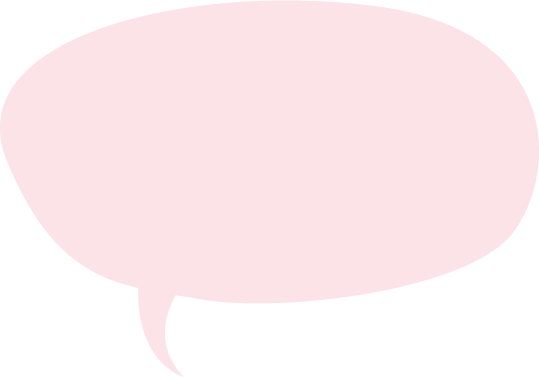
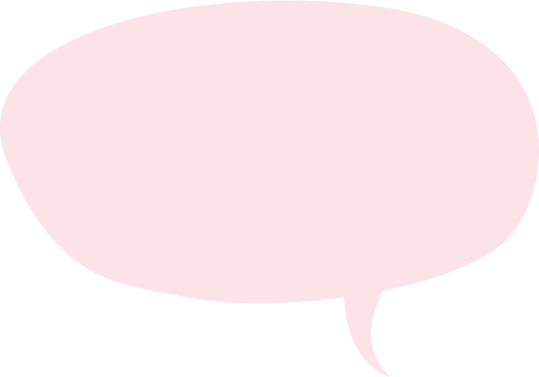
Add game logic, audio and win overlay
Implement game interactivity and UI styles: add JS to play instruction audio (with autoplay fallback), handle card clicks with correct/error audio feedback, track selection of number 9s and show a victory overlay with continue button. Refactor CSS: remove debug background colors, position bubble image/text, add controls button styling, define grid card styles and success/error states, and add animated win-overlay styles. Also add .DS_Store entries and update img/globo.png file mode.

Changed region(s): [[0.2375, 0.7586, 0.3265, 0.992], [0.6234, 0.7586, 0.7124, 0.992]]

diff --git a/css/styles.css b/css/styles.css
@@ -124,7 +124,6 @@ body {
   justify-content: end;
   align-items: center;
   padding: 1rem;
-  background-color: blue;
 }
 
 .header__logo {
@@ -132,7 +131,6 @@ body {
   justify-content: end;
   align-items: center;
   width: 15%;
-  background-color: purple;
 }
 
 /* MAIN */
@@ -142,7 +140,6 @@ body {
   grid-template-columns: 1fr 1fr;
   grid-template-rows: 1fr;
   grid-template-areas: "guide game";
-  background-color: red;
 }
 
 /* MAIN - GUIDE */
@@ -155,7 +152,6 @@ body {
     "bubble bubble"
     "controls character";
   gap: 1rem;
-  background-color: green;
 }
 
 .bubble {
@@ -164,21 +160,26 @@ body {
   justify-content: center;
   align-items: flex-end;
   position: relative;
-  background-color: beige;
 }
 
 .bubble__img {
   width: 75%;
+  position: relative;
+  top: 50px;
+  left: 50px;
 }
 
 .bubble__text {
   position: absolute;
   bottom: 25%; /* sube desde abajo — el globo está abajo */
-  left: 50%;
-  width: 45%; /* ancho del área de texto dentro del óvalo */
+  left: 60%;
+  width: 75%; /* ancho del área de texto dentro del óvalo */
   text-align: center;
   transform: translateX(-50%);
-  /* Se posiciona relativo a .bubble, pero apuntando al centro del globo */
+  font-size: 1.5rem;
+  font-family: "fredoka", sans-serif;
+  color: #1a365d;
+  font-weight: 500;
 }
 
 .controls {
@@ -188,7 +189,13 @@ body {
   align-items: end;
   gap: 1rem;
   padding: 0 0 1rem 1rem;
-  background-color: pink;
+}
+
+.controls__button {
+  background: transparent;
+  border: none;
+  padding: 0;
+  cursor: pointer;
 }
 
 .controls__icon {
@@ -200,7 +207,6 @@ body {
   display: flex;
   justify-content: center;
   align-items: flex-end; /* pega el personaje abajo */
-  background-color: aqua;
   overflow: visible;
 }
 
@@ -212,15 +218,120 @@ body {
 /* MAIN - GAME */
 .main__game {
   grid-area: game;
-  align-content: center;
-  padding: 1rem;
-  background-color: orange;
+  padding: 7rem 1rem 1rem;
 }
 
 .grid {
   display: grid;
-  grid-template-columns: repeat(6, 1fr);
-  grid-template-rows: repeat(4, 1fr);
-  gap: 0.5rem;
-  background-color: red;
+  grid-template-columns: repeat(6, 85px);
+  grid-auto-rows: 85px;
+}
+
+.grid__card {
+  background-color: white;
+  border: none;
+  border-radius: 8px;
+  cursor: pointer;
+  transition: background-color 0.2s;
+}
+
+.grid__card--correcto {
+  background-color: #90ee90; /* verde claro */
+}
+
+.grid__card--error {
+  background-color: #ffcccc; /* rojo claro breve */
+}
+
+/* ==========================================
+   OVERLAY DE VICTORIA
+========================================== */
+
+@keyframes fade-in {
+  from {
+    opacity: 0;
+  }
+  to {
+    opacity: 1;
+  }
+}
+
+@keyframes pop-in {
+  from {
+    transform: scale(0.6);
+    opacity: 0;
+  }
+  to {
+    transform: scale(1);
+    opacity: 1;
+  }
+}
+
+.win-overlay {
+  position: fixed;
+  inset: 0;
+  z-index: 999;
+  display: flex;
+  justify-content: center;
+  align-items: center;
+  background: rgba(0, 0, 0, 0.55);
+  animation: fade-in 0.35s ease;
+}
+
+.win-overlay__content {
+  display: flex;
+  flex-direction: column;
+  align-items: center;
+  animation: pop-in 0.45s cubic-bezier(0.34, 1.4, 0.64, 1);
+}
+
+.win-overlay__cloud-wrap {
+  position: relative;
+  width: min(80vw, 480px);
+}
+
+.win-overlay__cloud {
+  display: block;
+  width: 100%;
+  height: auto;
+}
+
+.win-overlay__msg {
+  position: absolute;
+  inset: 0;
+  display: flex;
+  justify-content: center;
+  align-items: center;
+  padding: 10% 15%;
+  font-family: "mali", sans-serif;
+  font-size: clamp(1rem, 3.5vw, 1.6rem);
+  font-weight: bold;
+  line-height: 1.35;
+  text-align: center;
+  color: #f5c800;
+  text-shadow: 0 1px 4px rgba(0, 0, 0, 0.25);
+}
+
+.win-overlay__continue {
+  position: absolute;
+  right: -10%;
+  bottom: -20%;
+  z-index: 10;
+  width: min(25vw, 140px);
+  padding: 0;
+  border: none;
+  background: transparent;
+  cursor: pointer;
+}
+
+.win-overlay__continue:hover,
+.win-overlay__continue:focus-visible {
+  outline: none;
+  transform: scale(1.08);
+}
+
+.win-overlay__continue img {
+  display: block;
+  width: 100%;
+  height: auto;
 }

diff --git a/js/script.js b/js/script.js
@@ -1,0 +1,106 @@
+// ==========================================
+// AUDIO DE INSTRUCCIONES
+// ==========================================
+const audioInstruccion = new Audio("audio/C26_AS_AU_RE_73_PRIN.mp3");
+
+function playInstruccion() {
+  audioInstruccion.pause();
+  audioInstruccion.currentTime = 0;
+  audioInstruccion.play().catch(() => {});
+}
+
+// Al cargar la página
+window.addEventListener("load", () => {
+  setTimeout(() => {
+    audioInstruccion.play().catch(() => {
+      // Si el autoplay está bloqueado, espera la primera interacción
+      const unlock = () => {
+        playInstruccion();
+        document.removeEventListener("pointerdown", unlock);
+      };
+      document.addEventListener("pointerdown", unlock, { once: true });
+    });
+  }, 500);
+});
+
+// Al hacer click en el botón de audio
+document
+  .querySelector(".controls__icon--audio")
+  .closest(".controls__button")
+  .addEventListener("click", playInstruccion);
+
+// ==========================================
+// CONFIGURACIÓN
+// ==========================================
+const AUDIO_CORRECTO = "audio/C26_AS_AU_RE_56_PRIN.mp3";
+const AUDIO_ERROR = "audio/C26_AS_AU_RE_2_PRIN.mp3";
+
+const audioCorrecto = new Audio(AUDIO_CORRECTO);
+const audioError = new Audio(AUDIO_ERROR);
+
+// ==========================================
+// LÓGICA DEL JUEGO
+// ==========================================
+const cards = document.querySelectorAll(".grid__card");
+
+// Total de 9s en el tablero
+const totalNueves = [...cards].filter(
+  (card) => card.dataset.number === "9",
+).length;
+let nuevesSeleccionados = 0;
+
+cards.forEach((card) => {
+  card.addEventListener("click", () => {
+    const numero = card.dataset.number;
+
+    if (numero === "9") {
+      // Evitar que se cuente dos veces si ya fue seleccionado
+      if (card.classList.contains("grid__card--correcto")) return;
+
+      card.classList.add("grid__card--correcto");
+      audioCorrecto.currentTime = 0;
+      audioCorrecto.play();
+
+      nuevesSeleccionados++;
+
+      if (nuevesSeleccionados === totalNueves) {
+        setTimeout(() => mostrarFelicitacion(), 500);
+      }
+    } else {
+      // Error — feedback visual breve
+      card.classList.add("grid__card--error");
+      audioError.currentTime = 0;
+      audioError.play();
+
+      setTimeout(() => card.classList.remove("grid__card--error"), 600);
+    }
+  });
+});
+
+function mostrarFelicitacion() {
+  const audio = new Audio("audio/C26_AS_AU_RE_74_PRIN.mp3");
+  audio.play().catch(() => {});
+
+  const overlay = document.createElement("div");
+  overlay.className = "win-overlay";
+  overlay.innerHTML = `
+    <div class="win-overlay__content">
+      <div class="win-overlay__cloud-wrap">
+        <img class="win-overlay__cloud" src="img/nube_final.png" alt="" />
+        <p class="win-overlay__msg">
+          ¡Muy bien!<br>
+          Hayaste todos<br>
+          los nueves.
+        </p>
+        <button class="win-overlay__continue" aria-label="Continuar">
+          <img src="img/end_btn.png" alt="Continuar" />
+        </button>
+      </div>
+    </div>
+  `;
+  document.body.appendChild(overlay);
+
+  overlay
+    .querySelector(".win-overlay__continue")
+    .addEventListener("click", () => location.reload(), { once: true });
+}